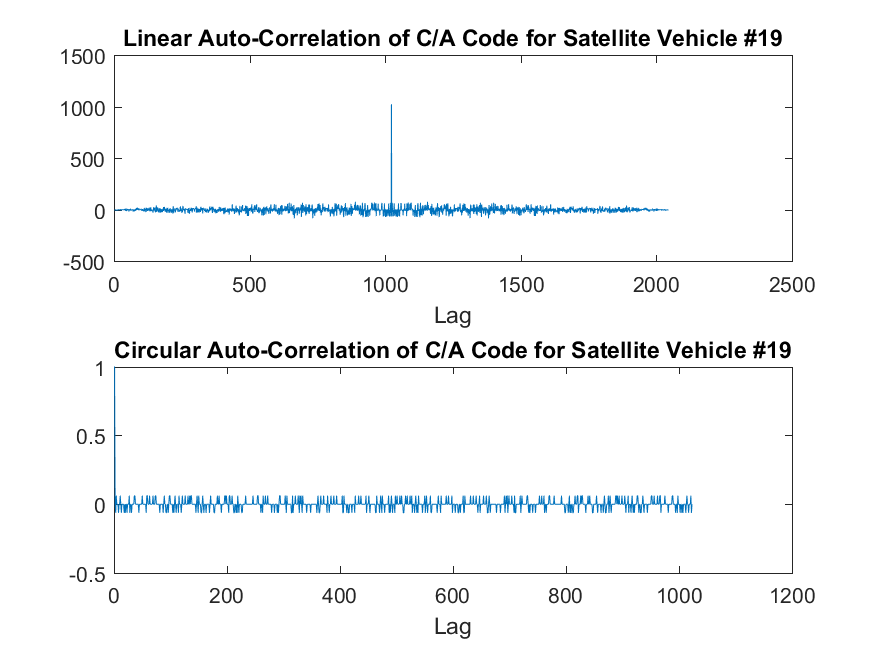
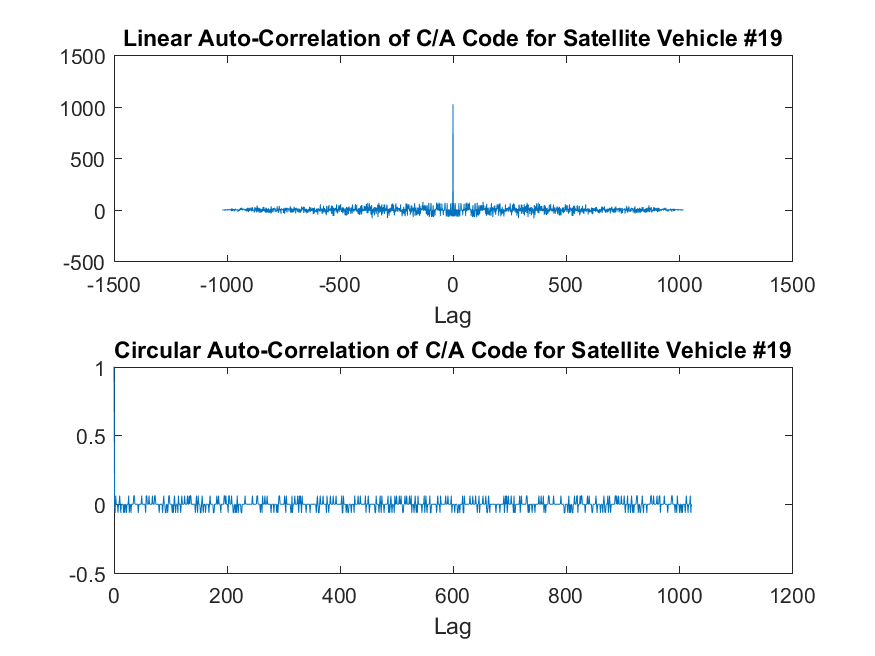
Updated HW4P2 figures

diff --git a/HW4/EECE5698_CAcode.m b/HW4/EECE5698_CAcode.m
@@ -27,14 +27,14 @@ saveas(fig1,['.\latex\figures\HW4P2a.png'])
 
 
 %% Compute and plot autocorrelation(s)
-ca_acor_line = xcorr (ca_code,ca_code);
-ca_acor_circ = xcorr_circ(ca_code,ca_code);
+[ca_acor_line, ll] = xcorr (ca_code,ca_code);
+[ca_acor_circ, lc] = xcorr_circ(ca_code,ca_code);
 
 fig2 = figure;
-subplot(2,1,1); plot(ca_acor_line);
+subplot(2,1,1); plot(ll, ca_acor_line);
 title(sprintf('Linear Auto-Correlation of C/A Code for Satellite Vehicle #%d',svnum));
 xlabel('Lag');
-subplot(2,1,2); plot(ca_acor_circ);
+subplot(2,1,2); plot(lc, ca_acor_circ);
 title(sprintf('Circular Auto-Correlation of C/A Code for Satellite Vehicle #%d',svnum));
 xlabel('Lag');
 saveas(fig2,['.\latex\figures\HW4P2b.png'])
@@ -42,20 +42,20 @@ saveas(fig2,['.\latex\figures\HW4P2b.png'])
 
 
 %% Compute and plot crosscorrelation with concatenated replicas
-ca_ccor_line_cat = xcorr (ca_code,[ca_code ca_code ca_code]);
-figure; plot(ca_ccor_line_cat);
+[ca_ccor_line_cat, ll] = xcorr (ca_code,[ca_code ca_code ca_code]);
+fig3 = figure; plot(ll, ca_ccor_line_cat);
 title('Cross-Correlation between ca_code and thrice replicated c_code');
 xlabel('Lag');
-saveas(fig2,['.\latex\figures\HW4P2c.png'])
+saveas(fig3,['.\latex\figures\HW4P2c.png'])
 
 
 %% Compute and plot crosscorrelation(s)
-ca_xcor_line = xcorr (ca_code,ca_code2);
-ca_xcor_circ = xcorr_circ(ca_code,ca_code2);
+[ca_xcor_line, ll] = xcorr (ca_code,ca_code2);
+[ca_xcor_circ, lc] = xcorr_circ(ca_code,ca_code2);
 
-figure;
-subplot(2,1,1); plot(ca_xcor_line);
+fig4 = figure;
+subplot(2,1,1); plot(ll, ca_xcor_line);
 title(sprintf('Linear Cross-Correlation between C/A Code for Satellite Vehicle #%d and #%d',svnum,svnum+1));
-subplot(2,1,2); plot(ca_xcor_circ);
+subplot(2,1,2); plot(lc, ca_xcor_circ);
 title(sprintf('Circular Cross-Correlation between C/A Code for Satellite Vehicle #%d and #%d',svnum,svnum+1));
-saveas(fig2,['.\latex\figures\HW4P2d.png'])
+saveas(fig4,['.\latex\figures\HW4P2d.png'])

diff --git a/HW4/xcorr_circ.m b/HW4/xcorr_circ.m
@@ -1,4 +1,4 @@
-function [cxcor] = xcorr_circ(a,b)
+function [cxcor, lags] = xcorr_circ(a,b)
 
 % Normalize
 a = a(:) / norm(a);
@@ -12,3 +12,4 @@ for k=1:length(b)
     b = circshift(b,1,1);
 
 end
+lags = [0:length(b)-1];
